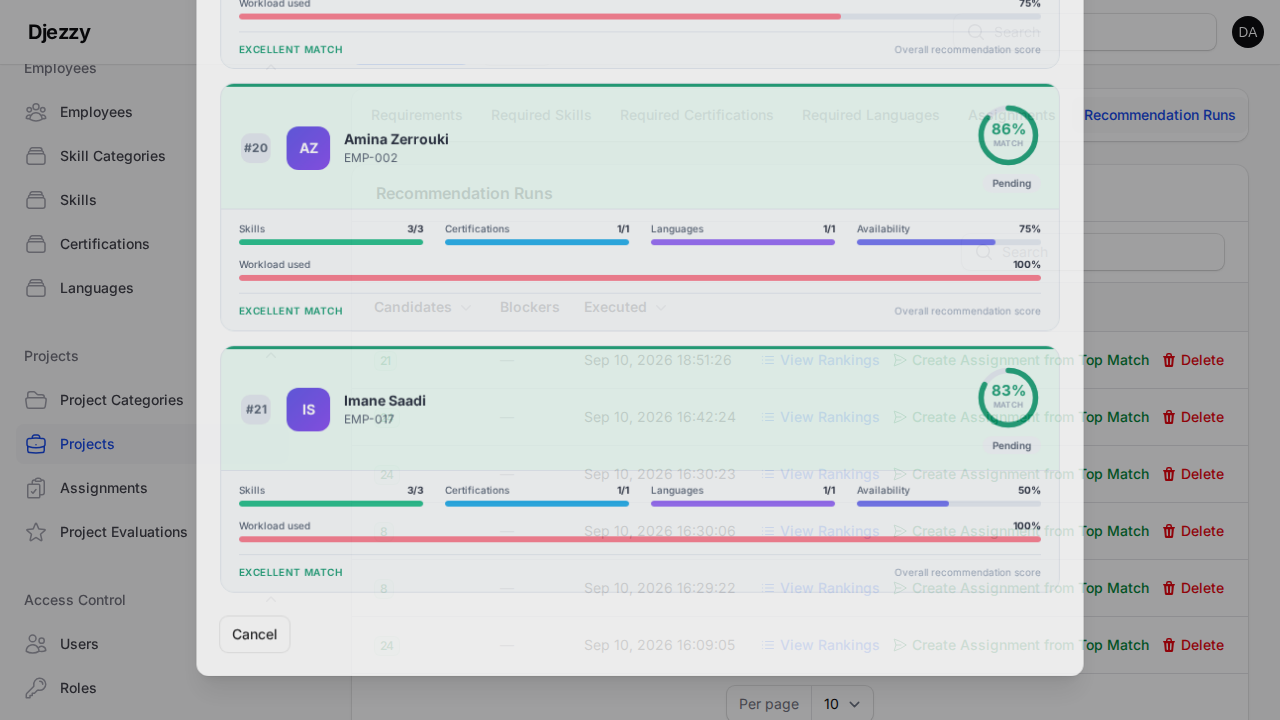
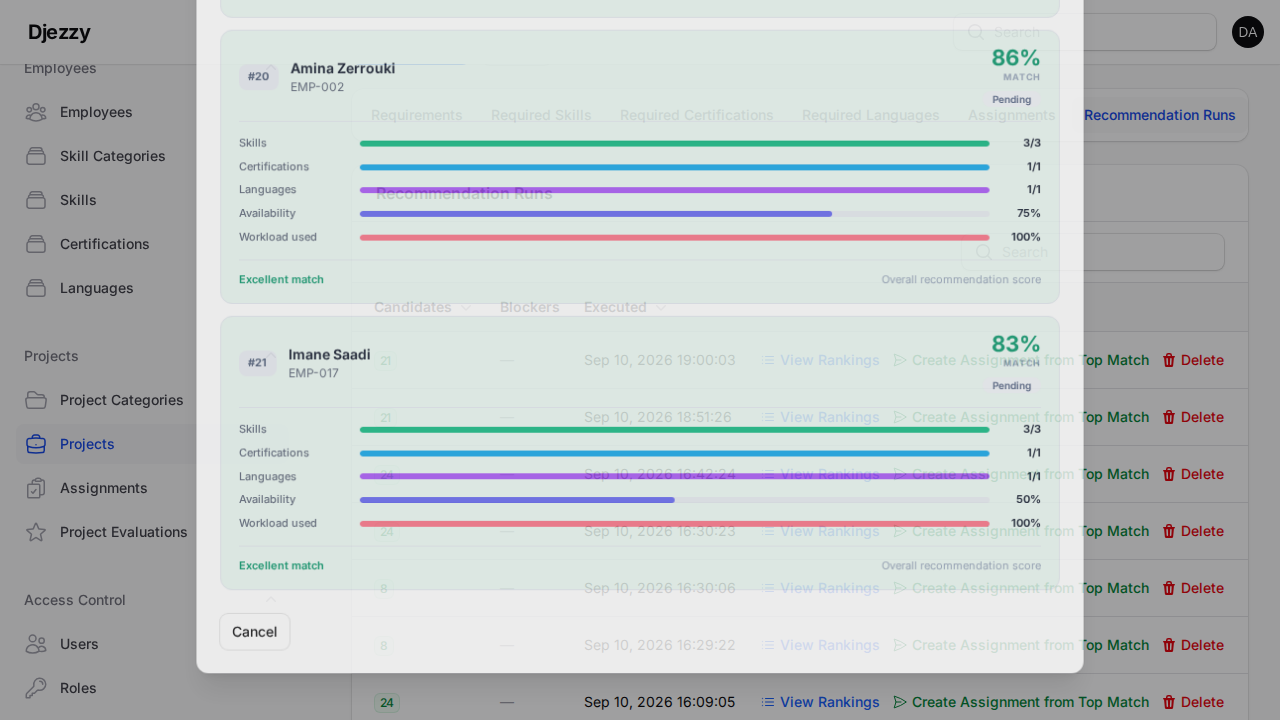
style: redesign recommendation cards for a minimal, scannable layout

diff --git a/resources/views/filament/admin/recommendations-modal.blade.php b/resources/views/filament/admin/recommendations-modal.blade.php
@@ -1,58 +1,54 @@
 <style>
     .recommendation-list {
-        --rv-bg: #ffffff;
-        --rv-soft: #f8fafc;
-        --rv-border: #e2e8f0;
-        --rv-track: #e2e8f0;
-        --rv-text: #0f172a;
-        --rv-muted: #475569;
-        --rv-dim: #94a3b8;
-        --rv-success: #059669;
-        --rv-amber: #b45309;
-        --rv-badge-default: #e2e8f0;
-        --rv-badge-default-text: #475569;
-        --rv-soft-good: #ecfdf5;
-        --rv-soft-mid: #fffbeb;
-        --rv-soft-low: #fff1f2;
-        --rv-good: #059669;
-        --rv-mid: #d97706;
-        --rv-low: #e11d48;
-        --rv-pill-pending-bg: #f1f5f9;
-        --rv-pill-pending-text: #475569;
-        --rv-pill-approved-bg: #d1fae5;
-        --rv-pill-approved-text: #059669;
-        --rv-pill-rejected-bg: #ffe4e6;
-        --rv-pill-rejected-text: #e11d48;
+        --rvc-card: #ffffff;
+        --rvc-soft: #f8fafc;
+        --rvc-border: #e4e9f0;
+        --rvc-track: #e7ebf1;
+        --rvc-text: #0f172a;
+        --rvc-muted: #5b6577;
+        --rvc-dim: #94a3b8;
+        --rvc-good: #059669;
+        --rvc-mid: #d97706;
+        --rvc-low: #e11d48;
+        --rvc-soft-good: #ecf9f3;
+        --rvc-soft-mid: #fdf6e9;
+        --rvc-soft-low: #fdeef2;
+        --rvc-rank-bg: #e9edf3;
+        --rvc-rank-text: #4b5a75;
+        --rvc-pill-pending-bg: #f1f4f8;
+        --rvc-pill-pending-text: #506080;
+        --rvc-pill-approved-bg: #def4ea;
+        --rvc-pill-approved-text: #0b7a52;
+        --rvc-pill-rejected-bg: #fbe4e8;
+        --rvc-pill-rejected-text: #c14a5e;
     }
 
     .dark .recommendation-list {
-        --rv-bg: #1e293b;
-        --rv-soft: #0f172a;
-        --rv-border: #334155;
-        --rv-track: #3f4d61;
-        --rv-text: #e2e8f0;
-        --rv-muted: #94a3b8;
-        --rv-dim: #64748b;
-        --rv-amber: #fbbf24;
-        --rv-success: #34d399;
-        --rv-badge-default: #334155;
-        --rv-badge-default-text: #cbd5e1;
-        --rv-soft-good: #1e293b;
-        --rv-soft-mid: #1e293b;
-        --rv-soft-low: #1e293b;
-        --rv-good: #34d399;
-        --rv-mid: #fbbf24;
-        --rv-low: #fb7185;
-        --rv-pill-pending-bg: #334155;
-        --rv-pill-pending-text: #cbd5e1;
-        --rv-pill-approved-bg: #064e3b;
-        --rv-pill-approved-text: #6ee7b7;
-        --rv-pill-rejected-bg: #4c0519;
-        --rv-pill-rejected-text: #fda4af;
+        --rvc-card: #1a2332;
+        --rvc-soft: #131b27;
+        --rvc-border: #2a3548;
+        --rvc-track: #2e3a50;
+        --rvc-text: #e6ebf2;
+        --rvc-muted: #97a5b7;
+        --rvc-dim: #63728a;
+        --rvc-good: #34d399;
+        --rvc-mid: #fbbf24;
+        --rvc-low: #fb7185;
+        --rvc-soft-good: #072118;
+        --rvc-soft-mid: #28200c;
+        --rvc-soft-low: #2f131c;
+        --rvc-rank-bg: #2d394d;
+        --rvc-rank-text: #c3cedd;
+        --rvc-pill-pending-bg: #253041;
+        --rvc-pill-pending-text: #a9b6c6;
+        --rvc-pill-approved-bg: #0d3a2a;
+        --rvc-pill-approved-text: #5fe0a8;
+        --rvc-pill-rejected-bg: #3f1b25;
+        --rvc-pill-rejected-text: #fda4af;
     }
 </style>
 
-<div class="recommendation-list" style="display: flex; flex-direction: column; gap: 14px;">
+<div class="recommendation-list" style="display: flex; flex-direction: column; gap: 12px;">
     @forelse ($recommendations as $rec)
         @php
             $rank = (int) $rec->rank;
@@ -62,12 +58,6 @@
                 : ($rec->team_id
                     ? 'Team · '.($rec->team?->code ?? '')
                     : 'Department · '.($rec->department?->code ?? ''));
-            $initials = Str::of(trim($name))
-                ->split('/[\s\-]+/')
-                ->reject(fn ($w) => trim((string) $w) === '')
-                ->take(2)
-                ->map(fn ($w) => Str::upper(Str::substr((string) $w, 0, 1)))
-                ->implode('');
 
             $score = (float) ($rec->total_score ?? 0);
             $pct = round($score * 100, 1);
@@ -96,30 +86,26 @@
                 default => 'Moderate match',
             };
 
-            $rankBadge = match ($rank) {
-                1 => ['#f59e0b', 'Best match'],
-                2 => ['#94a3b8', null],
-                3 => ['#f97316', null],
-                default => [null, null],
+            $rankBg = match ($rank) {
+                1 => '#f59e0b',
+                2 => '#94a3b8',
+                3 => '#f97316',
+                default => 'var(--rvc-rank-bg)',
             };
-            $rankBadgeBg = $rankBadge[0] ?? 'var(--rv-badge-default)';
-            $rankBadgeText = $rankBadge[0] ? '#ffffff' : 'var(--rv-badge-default-text)';
+            $rankText = in_array($rank, [1, 2, 3], true) ? '#ffffff' : 'var(--rvc-rank-text)';
 
             $statusValue = $rec->status?->value ?? 'pending';
-            $statusLabel = Str::title(str_replace('_', ' ', $statusValue));
+            $statusLabel = $statusValue === 'pending' ? 'Pending' : Str::title(str_replace('_', ' ', $statusValue));
             $pillBg = match ($statusValue) {
-                'approved' => 'var(--rv-pill-approved-bg)',
-                'rejected' => 'var(--rv-pill-rejected-bg)',
-                default => 'var(--rv-pill-pending-bg)',
+                'approved' => 'var(--rvc-pill-approved-bg)',
+                'rejected' => 'var(--rvc-pill-rejected-bg)',
+                default => 'var(--rvc-pill-pending-bg)',
             };
             $pillText = match ($statusValue) {
-                'approved' => 'var(--rv-pill-approved-text)',
-                'rejected' => 'var(--rv-pill-rejected-text)',
-                default => 'var(--rv-pill-pending-text)',
+                'approved' => 'var(--rvc-pill-approved-text)',
+                'rejected' => 'var(--rvc-pill-rejected-text)',
+                default => 'var(--rvc-pill-pending-text)',
             };
-
-            $circumference = 2 * M_PI * 20;
-            $dashOffset = $circumference * (1 - max(0, min(1, $score)));
 
             $sizeLabel = match (true) {
                 isset($ex['team_size']) => $ex['team_size'].' active member'.($ex['team_size'] != 1 ? 's' : ''),
@@ -127,96 +113,66 @@
                 default => null,
             };
 
-            $factors = [
-                ['Skills', $skills['matched'], $skills['total'], $skillPct, '#10b981'],
-                ['Certifications', $certs['matched'], $certs['total'], $certPct, '#0ea5e9'],
-                ['Languages', $langs['matched'], $langs['total'], $langPct, '#8b5cf6'],
-                ['Availability', null, null, $availPct, '#6366f1'],
-                ['Workload used', null, null, $usedPct, '#fb7185'],
+            $rows = [
+                ['Skills', $skills['matched'].'/'.$skills['total'], $skillPct, '#10b981'],
+                ['Certifications', $certs['matched'].'/'.$certs['total'], $certPct, '#0ea5e9'],
+                ['Languages', $langs['matched'].'/'.$langs['total'], $langPct, '#a855f7'],
+                ['Availability', $availPct.'%', $availPct, '#6366f1'],
+                ['Workload used', $usedPct.'%', $usedPct, '#fb7185'],
             ];
         @endphp
 
-        <div style="border: 1px solid var(--rv-border); border-radius: 14px; background: var(--rv-soft-{{ $level }}); overflow: hidden;">
-            <div style="height: 3px; background: var(--rv-{{ $level }});"></div>
-            <div style="display: flex; align-items: center; gap: 14px; padding: 16px 18px;">
-                <div style="display: flex; flex-direction: column; align-items: center; gap: 2px; width: 34px;">
-                    <div style="width: 30px; height: 30px; border-radius: 9px; background: {{ $rankBadgeBg }}; color: {{ $rankBadgeText }}; display: flex; align-items: center; justify-content: center; font-size: 12px; font-weight: 700;">
-                        #{{ $rank }}
-                    </div>
-                    @if ($rankBadge[1])
-                        <div style="font-size: 8px; font-weight: 700; text-transform: uppercase; letter-spacing: 0.05em; color: var(--rv-amber);">{{ $rankBadge[1] }}</div>
-                    @endif
-                </div>
-
-                <div style="width: 44px; height: 44px; border-radius: 12px; background: linear-gradient(135deg, #4f46e5, #7c3aed); color: #fff; display: flex; align-items: center; justify-content: center; font-weight: 700; font-size: 14px; flex-shrink: 0;">
-                    {{ $initials ?: '?' }}
+        <div style="background: var(--rvc-soft-{{ $level }}); border: 1px solid var(--rvc-border); border-radius: 12px; padding: 16px 18px;">
+            <div style="display: flex; align-items: center; gap: 12px;">
+                <div style="flex: none; min-width: 32px; height: 26px; padding: 0 9px; border-radius: 8px; display: flex; align-items: center; justify-content: center; font-size: 11px; font-weight: 700; letter-spacing: 0.02em; background: {{ $rankBg }}; color: {{ $rankText }};">
+                    #{{ $rank }}
                 </div>
 
                 <div style="flex: 1; min-width: 0;">
-                    <div style="display: flex; align-items: center; gap: 6px;">
-                        <div style="font-weight: 700; font-size: 14px; color: var(--rv-text); white-space: nowrap; overflow: hidden; text-overflow: ellipsis;">{{ $name }}</div>
-                        @if ($statusValue === 'approved')
-                            <svg style="width: 15px; height: 15px; color: var(--rv-success); flex-shrink: 0;" viewBox="0 0 20 20" fill="currentColor">
-                                <path fill-rule="evenodd" d="M10 18a8 8 0 100-16 8 8 0 000 16zm3.707-9.707a1 1 0 00-1.414-1.414L9 10.172 7.707 8.879a1 1 0 00-1.414 1.414l2 2a1 1 0 001.414 0l3-3z" clip-rule="evenodd"/>
-                            </svg>
-                        @endif
+                    <div style="font-size: 14px; font-weight: 650; color: var(--rvc-text); white-space: nowrap; overflow: hidden; text-overflow: ellipsis;">{{ $name }}</div>
+                    <div style="font-size: 12px; color: var(--rvc-muted); white-space: nowrap; overflow: hidden; text-overflow: ellipsis;">
+                        {{ $subtitle }}@if ($sizeLabel)<span style="color: var(--rvc-dim);"> · {{ $sizeLabel }}</span>@endif
                     </div>
-                    <div style="font-size: 12px; color: var(--rv-muted); white-space: nowrap; overflow: hidden; text-overflow: ellipsis;">{{ $subtitle }}</div>
-                    @if ($sizeLabel)
-                        <div style="font-size: 10px; color: var(--rv-dim); margin-top: 2px;">{{ $sizeLabel }}</div>
-                    @endif
                 </div>
 
-                <div style="display: flex; flex-direction: column; align-items: flex-end; gap: 6px; flex-shrink: 0;">
-                    <div style="position: relative; width: 66px; height: 66px;">
-                        <svg viewBox="0 0 48 48" style="width: 66px; height: 66px; transform: rotate(-90deg);">
-                            <circle cx="24" cy="24" r="20" fill="none" stroke-width="4" style="stroke: var(--rv-track);"/>
-                            <circle cx="24" cy="24" r="20" fill="none" stroke-width="4" stroke-linecap="round" style="stroke: var(--rv-{{ $level }}); stroke-dasharray: {{ $circumference }}; stroke-dashoffset: {{ $dashOffset }};"/>
-                        </svg>
-                        <div style="position: absolute; inset: 0; display: flex; flex-direction: column; align-items: center; justify-content: center;">
-                            <span style="font-size: 15px; font-weight: 700; color: var(--rv-{{ $level }}); line-height: 1;">{{ $pct }}%</span>
-                            <span style="font-size: 8px; font-weight: 600; text-transform: uppercase; letter-spacing: 0.05em; color: var(--rv-dim); margin-top: 2px;">match</span>
-                        </div>
-                    </div>
-                    <span style="padding: 2px 10px; border-radius: 9999px; font-size: 10px; font-weight: 600; color: {{ $pillText }}; background: {{ $pillBg }};">{{ $statusLabel }}</span>
+                <div style="flex: none; display: flex; flex-direction: column; align-items: flex-end; gap: 3px;">
+                    <div style="font-size: 22px; font-weight: 700; line-height: 1; color: var(--rvc-{{ $level }});">{{ $pct }}%</div>
+                    <div style="font-size: 9px; font-weight: 700; text-transform: uppercase; letter-spacing: 0.08em; color: var(--rvc-dim);">match</div>
+                    <span style="margin-top: 4px; padding: 3px 10px; border-radius: 9999px; font-size: 10px; font-weight: 600; line-height: 1; color: {{ $pillText }}; background: {{ $pillBg }};">{{ $statusLabel }}</span>
                 </div>
             </div>
 
-            <div style="padding: 12px 18px; background: var(--rv-soft); border-top: 1px solid var(--rv-border);">
-                <div style="display: flex; flex-wrap: wrap; gap: 12px 22px;">
-                    @foreach ($factors as [$label, $matched, $total, $p, $color])
-                        <div style="flex: 1 1 170px; min-width: 150px;">
-                            <div style="display: flex; align-items: center; justify-content: space-between; margin-bottom: 4px;">
-                                <span style="font-size: 10px; font-weight: 500; color: var(--rv-muted);">{{ $label }}</span>
-                                <span style="font-size: 10px; font-weight: 700; color: var(--rv-text);">{{ $total !== null ? "{$matched}/{$total}" : $p.'%' }}</span>
-                            </div>
-                            <div style="height: 6px; border-radius: 9999px; background: var(--rv-track); overflow: hidden;">
-                                <div style="height: 100%; width: {{ $p }}%; background: {{ $color }}; border-radius: 9999px;"></div>
-                            </div>
+            <div style="display: flex; flex-direction: column; gap: 8px; margin-top: 14px; padding-top: 14px; border-top: 1px solid var(--rvc-border);">
+                @foreach ($rows as [$label, $value, $p, $color])
+                    <div style="display: flex; align-items: center; gap: 12px;">
+                        <span style="flex: none; width: 110px; font-size: 11px; font-weight: 500; color: var(--rvc-muted);">{{ $label }}</span>
+                        <div style="flex: 1; height: 6px; border-radius: 9999px; background: var(--rvc-track); overflow: hidden;">
+                            <div style="height: 100%; width: {{ $p }}%; border-radius: 9999px; background: {{ $color }};"></div>
                         </div>
-                    @endforeach
-                </div>
+                        <span style="flex: none; width: 40px; text-align: right; font-size: 11px; font-weight: 650; color: var(--rvc-text);">{{ $value }}</span>
+                    </div>
+                @endforeach
+            </div>
 
-                <div style="display: flex; align-items: center; gap: 10px; margin-top: 12px; padding-top: 10px; border-top: 1px solid var(--rv-border);">
-                    <span style="font-size: 10px; font-weight: 600; text-transform: uppercase; letter-spacing: 0.04em; color: var(--rv-{{ $level }});">
-                        {{ $levelLabel }}
-                    </span>
-                    <span style="font-size: 10px; color: var(--rv-dim); margin-left: auto;">Overall recommendation score</span>
-                </div>
+            <div style="display: flex; align-items: center; justify-content: space-between; margin-top: 14px; padding-top: 12px; border-top: 1px solid var(--rvc-border);">
+                <span style="font-size: 11px; font-weight: 600; color: var(--rvc-{{ $level }});">{{ $levelLabel }}</span>
+                <span style="font-size: 11px; color: var(--rvc-dim);">Overall recommendation score</span>
             </div>
         </div>
     @empty
-        <div style="border: 1px dashed var(--rv-border); border-radius: 14px; background: var(--rv-soft); padding: 36px 20px; text-align: center;">
-            <div style="font-size: 13px; font-weight: 600; color: var(--rv-text);">No recommendations available</div>
+        <div style="border: 1px dashed var(--rvc-border); border-radius: 12px; background: var(--rvc-soft); padding: 34px 20px; text-align: center;">
+            <div style="font-size: 14px; font-weight: 600; color: var(--rvc-text);">No recommendations available</div>
             @if (! empty($blockers))
-                <div style="font-size: 11px; color: var(--rv-muted); margin-top: 8px; text-align: left; display: inline-block;">
-                    <div style="font-weight: 600; margin-bottom: 4px;">No candidate met the mandatory requirements:</div>
-                    @foreach ($blockers as $blocker)
-                        <div style="padding-left: 10px;">• {{ $blocker }}</div>
-                    @endforeach
+                <div style="margin-top: 12px; display: inline-block; text-align: left; font-size: 12px; color: var(--rvc-muted);">
+                    <div style="font-weight: 600; margin-bottom: 6px;">No candidate met the mandatory requirements:</div>
+                    <div style="display: flex; flex-direction: column; gap: 4px;">
+                        @foreach ($blockers as $blocker)
+                            <div style="color: var(--rvc-low);">• {{ $blocker }}</div>
+                        @endforeach
+                    </div>
                 </div>
             @else
-                <div style="font-size: 11px; color: var(--rv-dim); margin-top: 4px;">Run the recommendation engine to generate candidate matches.</div>
+                <div style="margin-top: 6px; font-size: 12px; color: var(--rvc-dim);">Run the recommendation engine to generate candidate matches.</div>
             @endif
         </div>
     @endforelse
